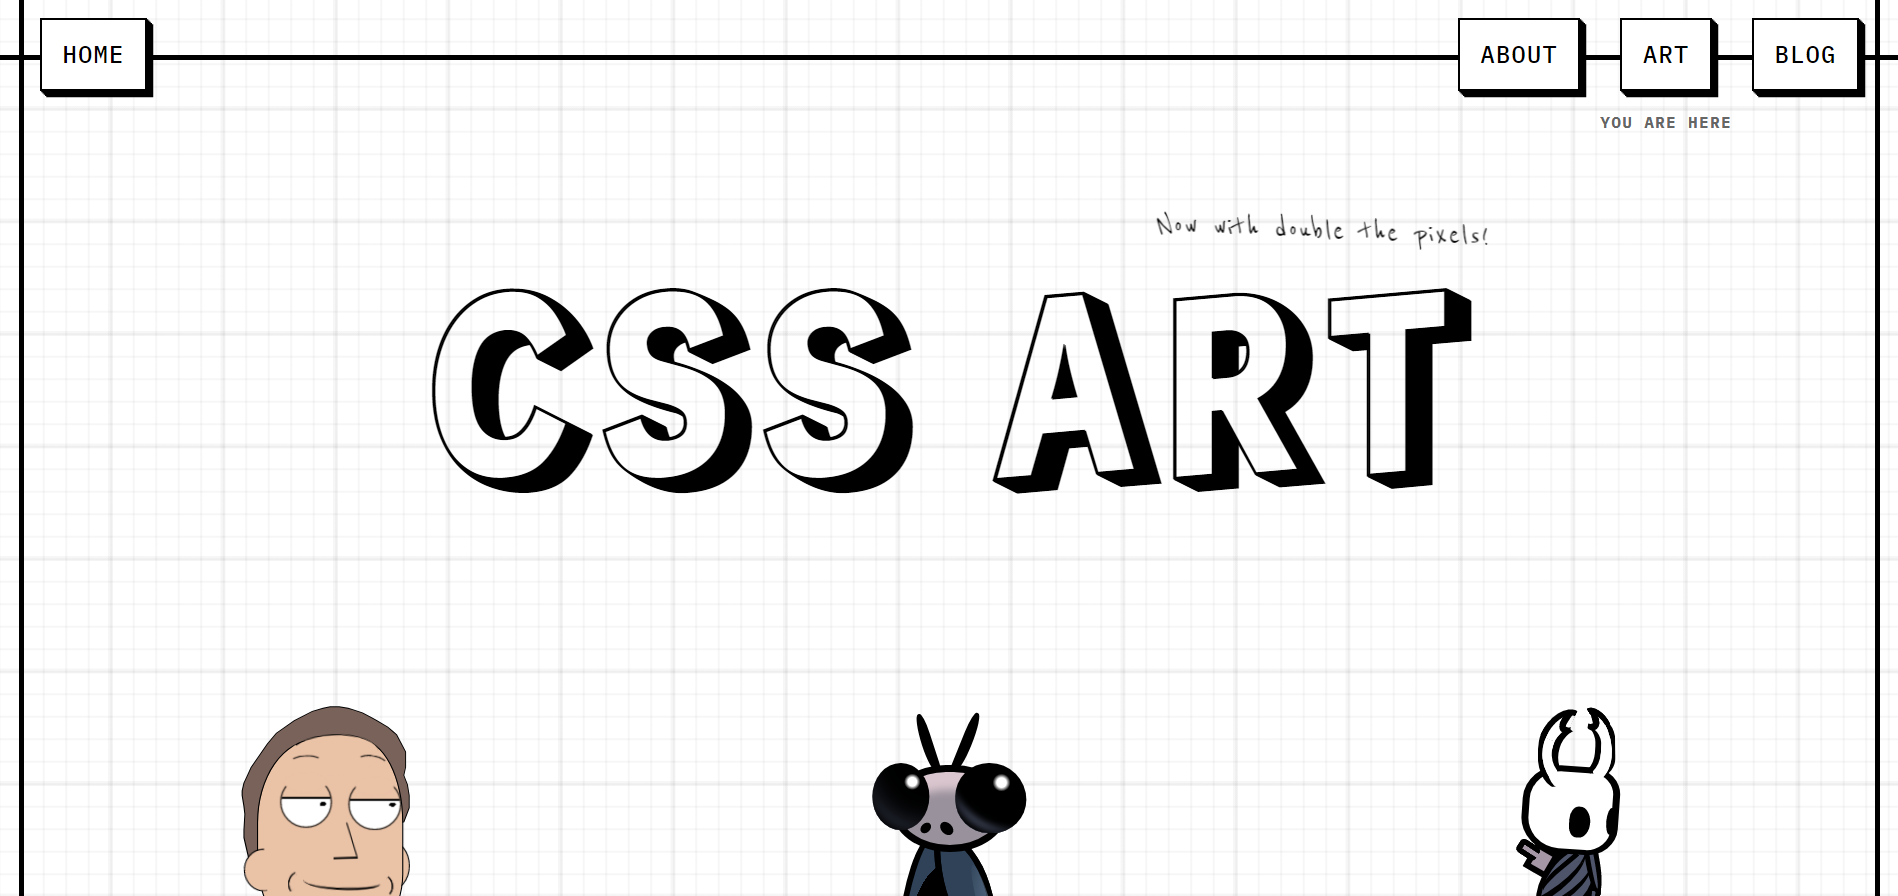
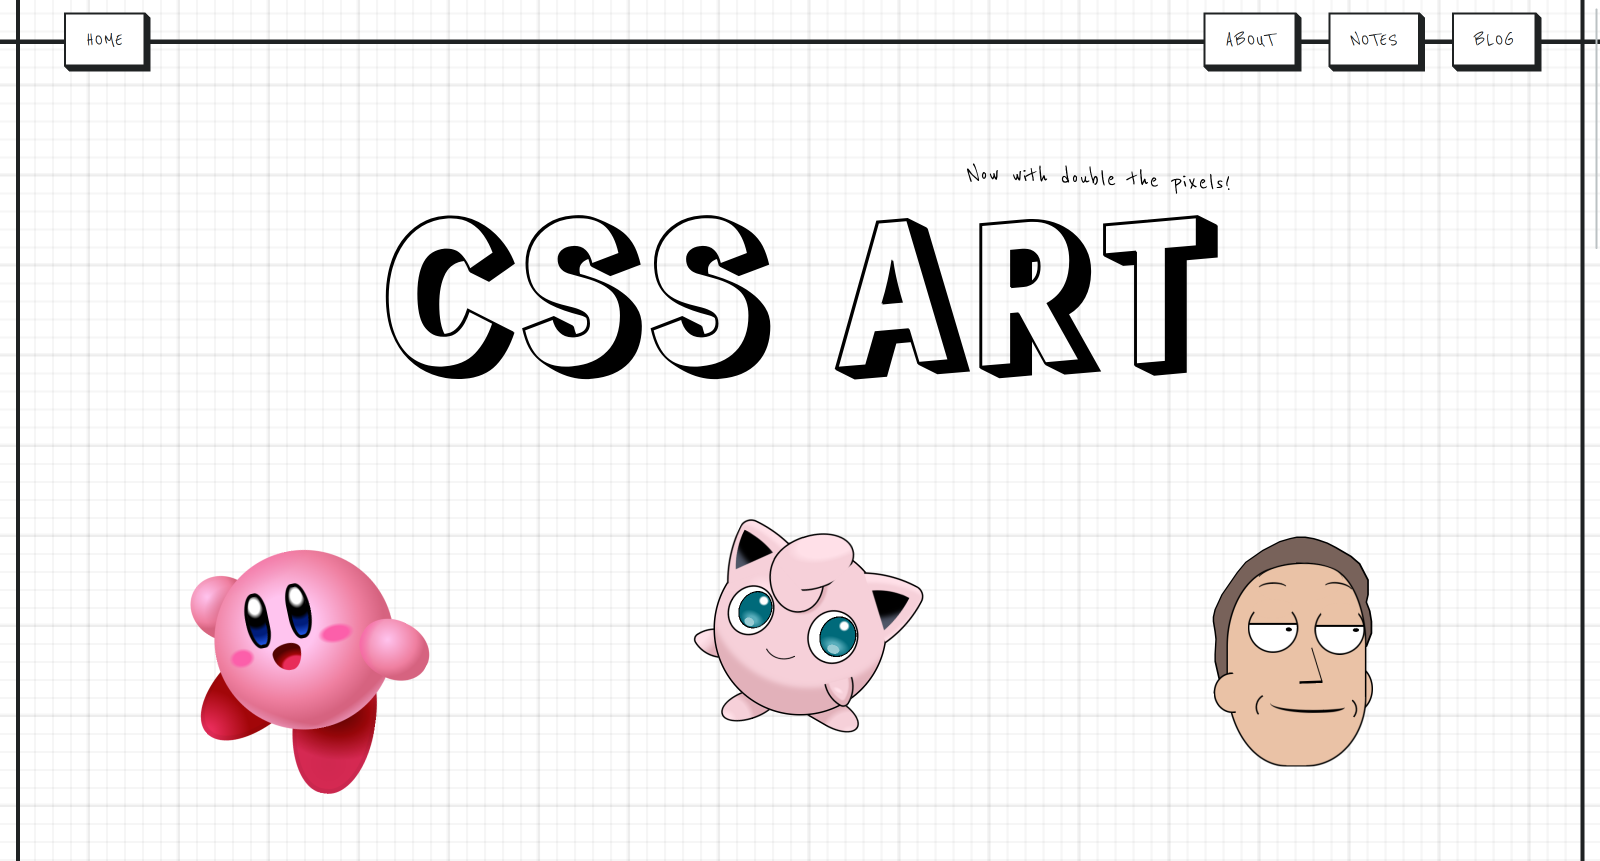
update about page

diff --git a/packages/web/src/_pages/about/index.md b/packages/web/src/_pages/about/index.md
@@ -35,13 +35,30 @@ You may have noticed that I like to use [the em dash](/blog/in-memory-of-em/). R
 
 ### Music
 
-I've loved listening to music my entire life, but it's only recently that I began _playing_. I picked up my first guitar in December 2023 and taught myself how to play it using online tutorials; since then, it's quickly become one of my favorite hobbies. I've recorded a few covers that you can check out on [my Music page](/music/).
+I've loved listening to music my entire life, but it's only recently that I began _playing_. I picked up my first guitar in December 2023 and taught myself how to play it using online tutorials; since then, it's quickly become one of my favorite hobbies. I've recorded a few guitar covers that you can check out on [my Music page](/music/). Here are my two most recent ones:
+
+<div class="rhythm">
+    <ol class="grid col-2 gap-5" style="--grid-item-min-width: calc(200rem/16);">
+        {%- for song in guitarCovers limit: 2 -%}
+        <li>
+            <figure class="project">
+                <img src="https://img.youtube.com/vi/{{ song.id }}/maxresdefault.jpg" alt="">
+                <figcaption><a class="card-link" href="https://www.youtube.com/watch?v={{ song.id }}">{{ song.artist }} &ndash; &ldquo;{{ song.name }}&rdquo;</a></figcaption>
+            </figure>
+        </li>
+        {%- endfor -%}
+    </ol>
+</div>
 
 ### Gaming
 
 Like many people, I was first introduced to the world of computers through video games. I often found myself testing the limits of what developers would allow me to get away with in their digital sandboxes, a habit I still haven't shaken to this day (and one that's been surprisingly useful for software testing!). This natural curiosity led me to learn more about computers in high school, write some of my first few lines of code, and, eventually, earn my bachelor's in computer science.
 
-So, when I'm not writing or playing guitar, I'm [praising till I'm hollow](https://www.youtube.com/watch?v=mp28JPs25ek). I'm a die-hard [Soulsborne](<https://en.wikipedia.org/wiki/Souls_(series)>) fan—I love the challenging gameplay, intricate lore, jolly co-operation, and inside jokes that this community is so well known for. But I also enjoy other genres of games: shooters, role-playing games, roguelites, card games, platformers, and more. I was practically raised by a generation of browser Flash games—may they [rest in peace](/blog/rest-in-peace-flash/)—and an unhealthy amount of (Old School) Runescape, and these experiences with video games have shaped my interests and personality. In fact, some games have left such a lasting impression on me that [I've written about them](/tags/gaming/) or [dedicated artwork to them](/art/).
+So, when I'm not writing or playing guitar, I'm [praising till I'm hollow](https://www.youtube.com/watch?v=mp28JPs25ek). I'm a die-hard [Soulsborne](<https://en.wikipedia.org/wiki/Souls_(series)>) fan—I love the challenging gameplay, intricate lore, jolly co-operation, and inside jokes that this community is so well known for. But I also enjoy other genres of games: shooters, role-playing games, roguelites, card games, platformers, and more. I was practically raised by a generation of browser Flash games—may they [rest in peace](/blog/rest-in-peace-flash/)—and an unhealthy amount of (Old School) Runescape, and these experiences with video games have shaped my interests and personality.
+
+Some games have left such a lasting impression on me that [I've written about them](/tags/gaming/) or dedicated [CSS artwork](/art/) to them:
+
+![Lined grid paper with colorful drawings of Kirby, Jigglypuff, characters from Hollow Knight, and Cuphead](./images/videogame-art.png)
 
 ### Reading
 
